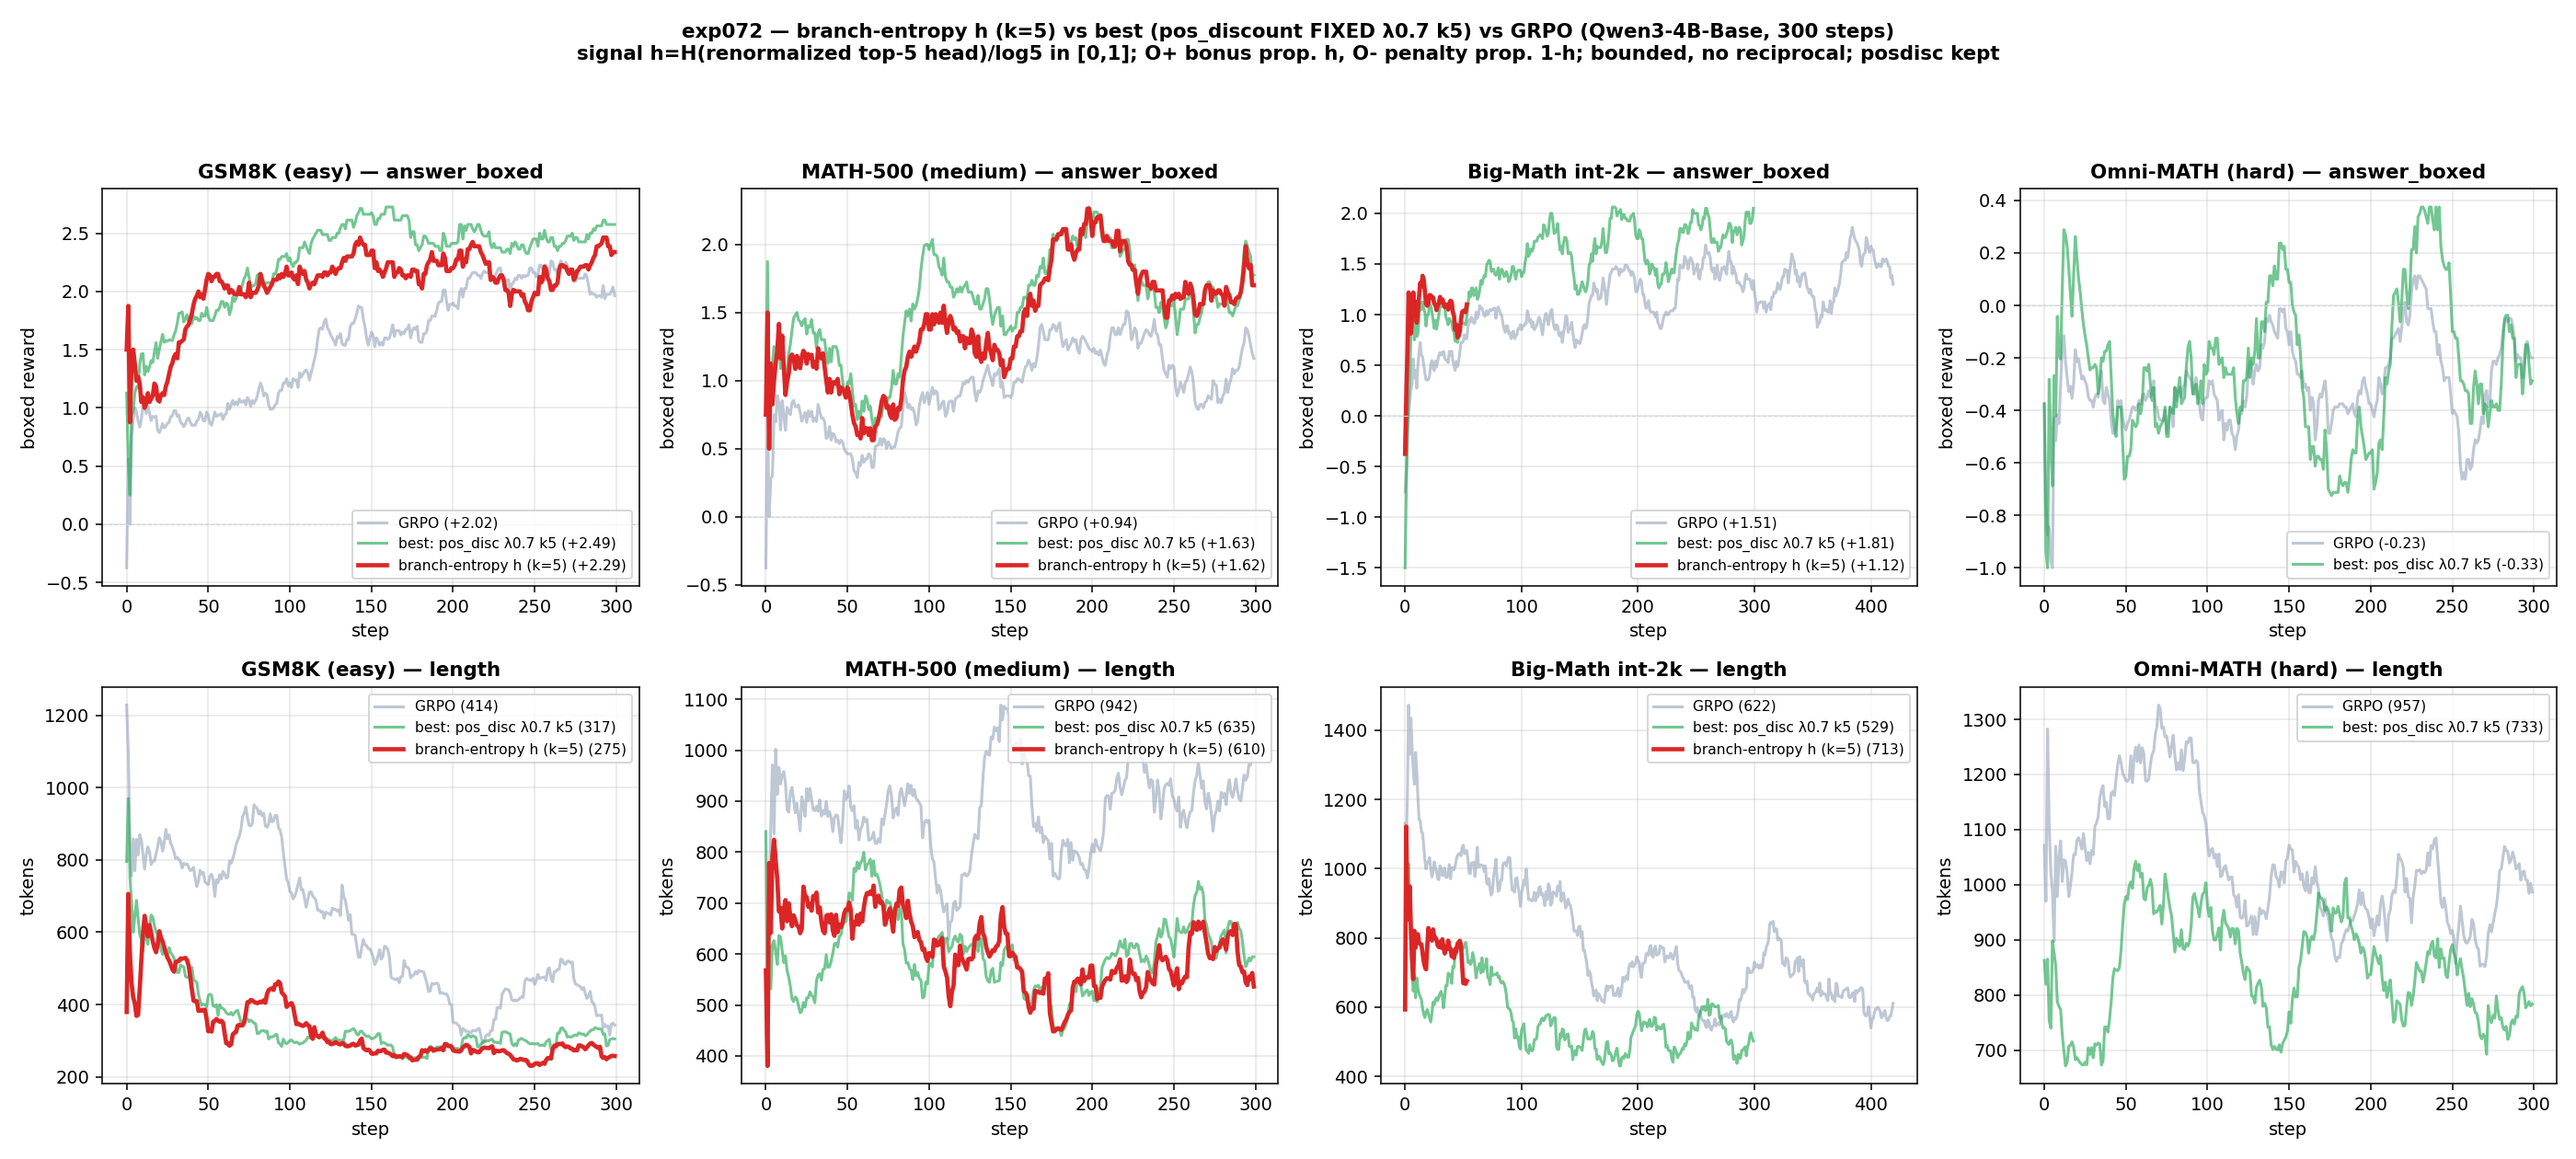
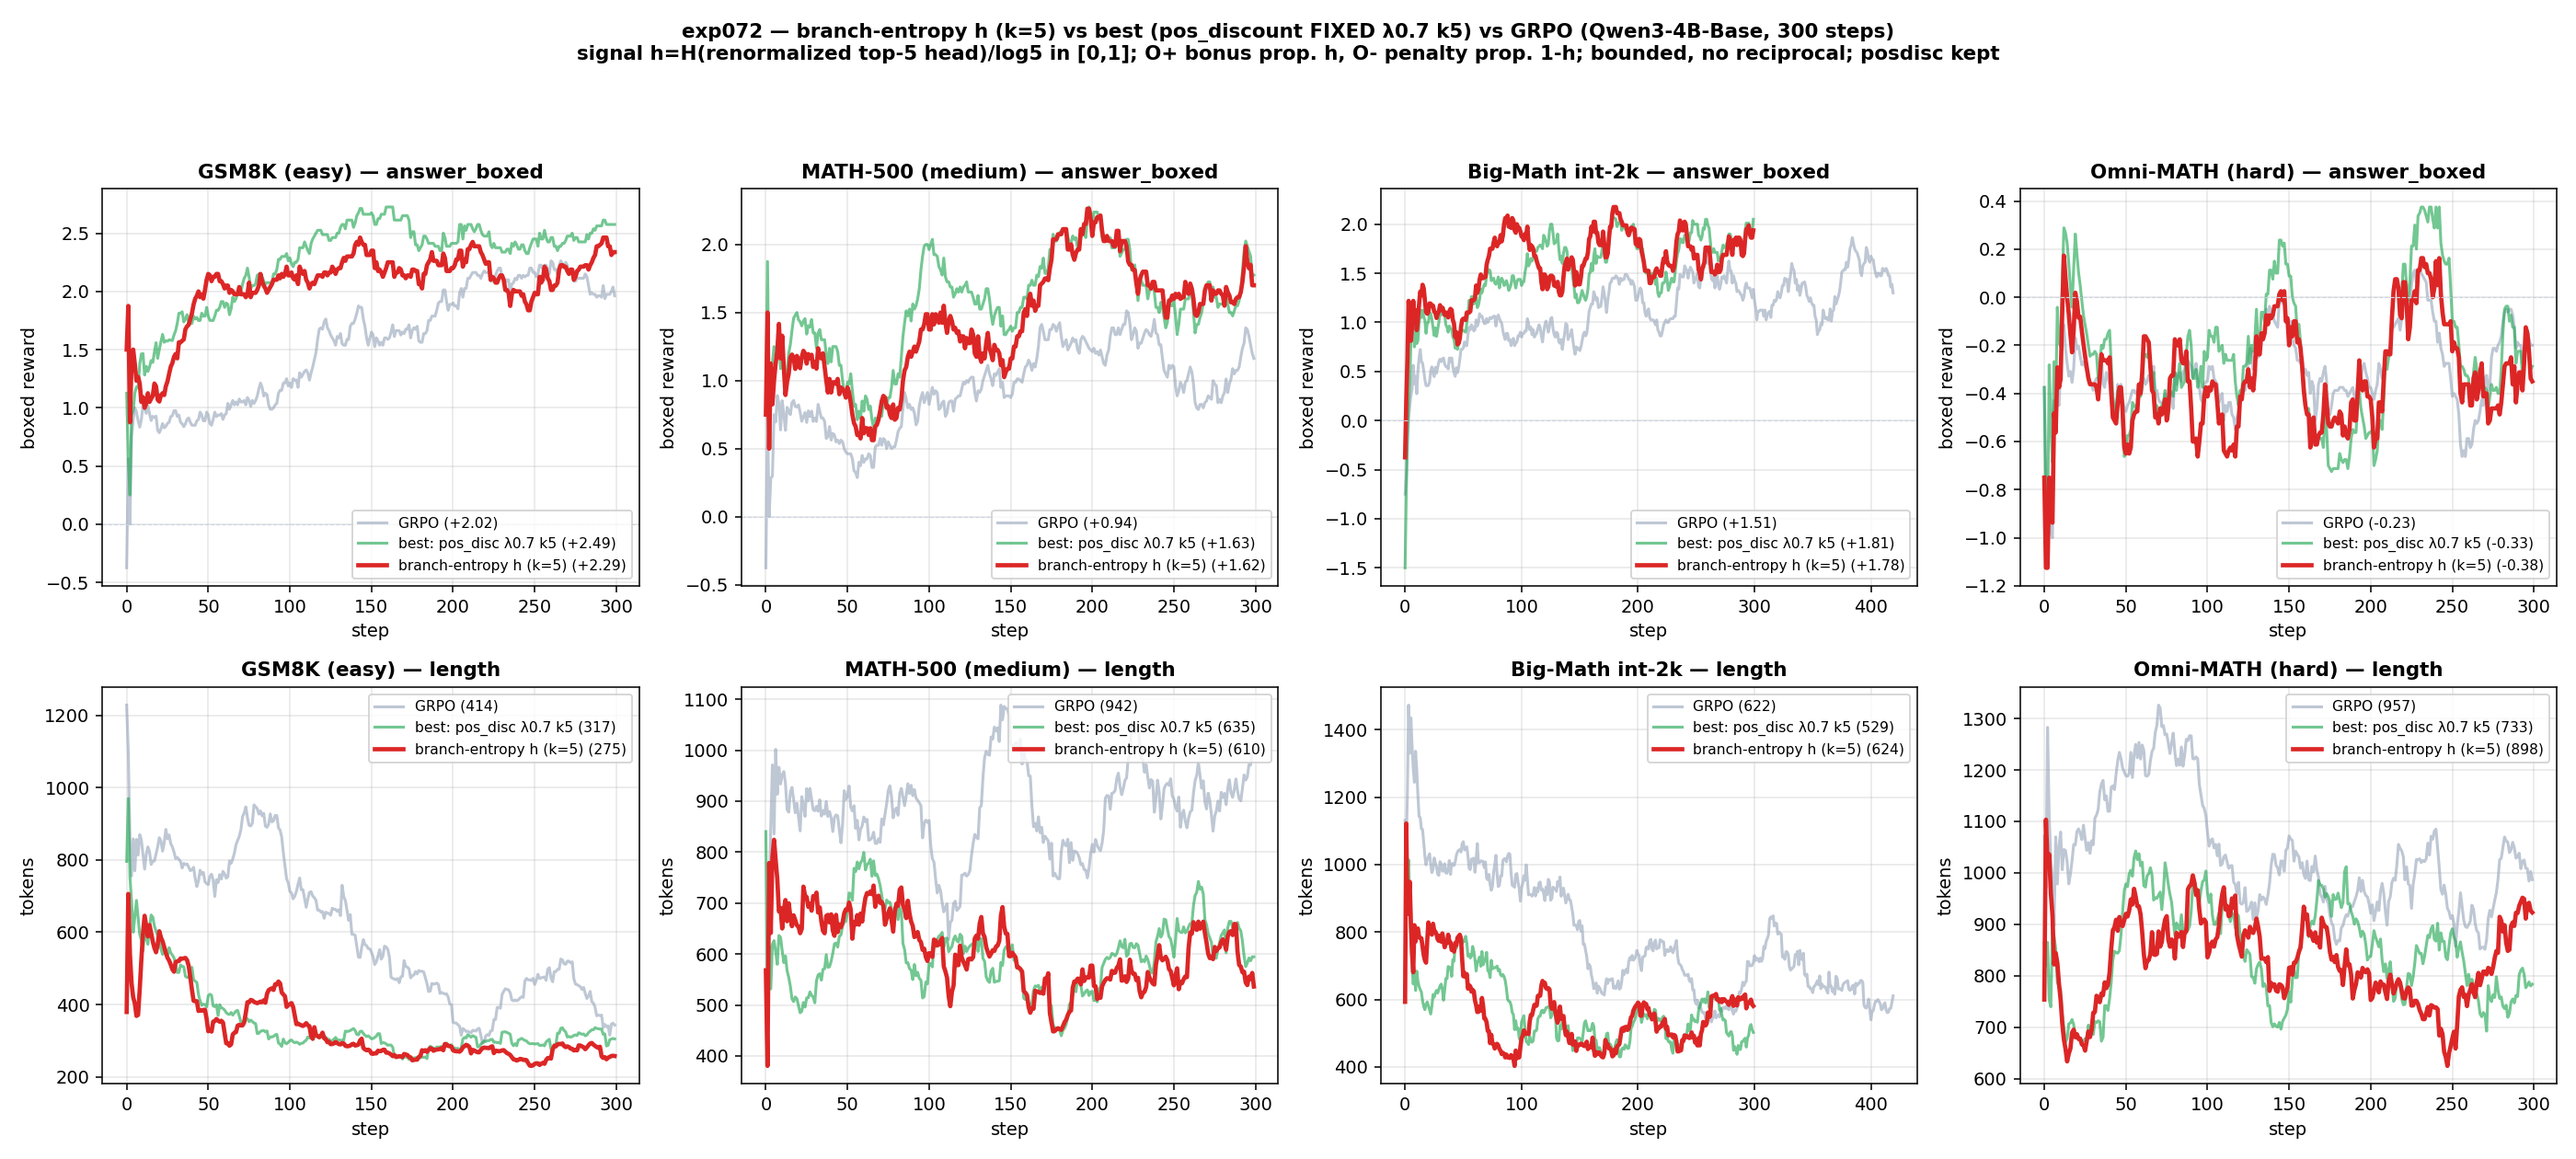
exp_072 FINAL: branch_entropy ties posdisc on math500/bigmath, below on gsm8k/omnimath (bounded signal ~matches tuned raw-C); exp_073 flipped_budget gsm8k +2.54 BEATS best, math500 running

diff --git a/experiments/exp_072_branch_entropy/README.md b/experiments/exp_072_branch_entropy/README.md
@@ -12,6 +12,21 @@ dilutes at k=20 and reverses meaning at k=1). posdisc λ0.7 kept; k=5.
 **Run:** `bash run_setup.sh`, `python plot_compare.py` → `figures/exp072_branch_entropy.png`
 (vs best posdisc λ0.7 k5 + GRPO). Metric `branch_entropy/mean_h`.
 
-## Results
+## Results (300 steps, L50 boxed / len)
 
-_(in progress)_
+| dataset | GRPO | best (posdisc λ0.7 k5) | **branch_entropy h (k5)** |
+|---|---|---|---|
+| gsm8k    | +2.02 / 414 | **+2.49** / 317 | +2.29 / 275 |
+| math500  | +0.94 / 942 | **+1.63** / 635 | +1.62 / 610 |
+| bigmath  | +1.51 / 622 | **+1.81** / 529 | +1.78 / 624 |
+| omnimath | **−0.23** / 957 | −0.33 / 733 | −0.38 / 898 |
+
+**Bounded branching signal is stable and competitive but does not beat the raw-C best.**
+mean_h ≈ 0.11–0.14 (matches exp_067 bimodality: ~85% peaked tokens → h≈0, signal on
+branch points). Ties posdisc on math500 (+1.62 vs +1.63) and bigmath (+1.78 vs +1.81),
+below it on gsm8k (+2.29 vs +2.49). Still below GRPO on omnimath (−0.38 vs −0.23) — the
+bounded signal removes the collapse risk and the k-dilution/sign-reversal pathology, but on
+its own it is ~neutral-to-slightly-worse than the raw-C reciprocal at these settings.
+Value for the paper: it is the *clean, robust* estimator (bounded, k-robust, no reciprocal)
+that MATCHES the tuned heuristic — the safety/principled story. Worth an α₂ sweep (the raw-C
+best was tuned; h has a different scale) and the k∈{3,20} robustness ablation.
